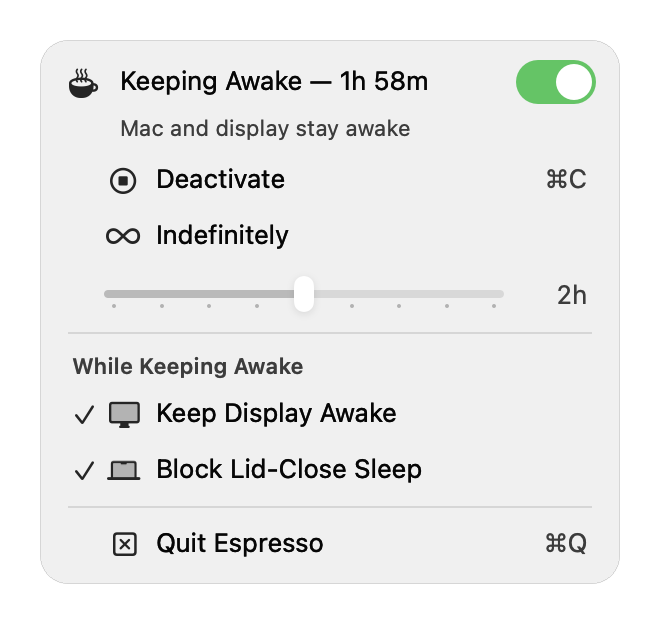
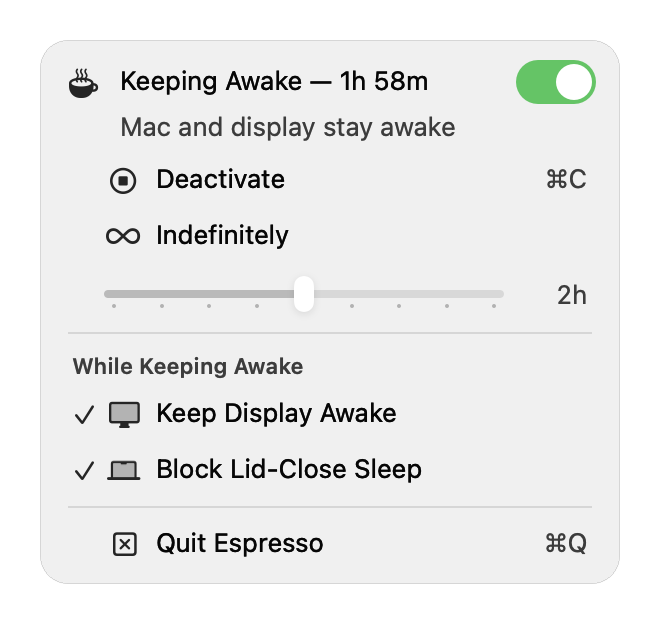
Detail line at 13pt like the rest of the menu; grey carries the hierarchy

Changed region(s): [[0.1818, 0.1827, 0.697, 0.2436]]

diff --git a/Sources/Espresso/AppDelegate.swift b/Sources/Espresso/AppDelegate.swift
@@ -168,10 +168,10 @@ final class AppDelegate: NSObject, NSApplicationDelegate, NSMenuDelegate {
         container.addSubview(title)
 
         let subtitle = NSTextField(labelWithString: "")
-        subtitle.font = .systemFont(ofSize: 11)
+        subtitle.font = .systemFont(ofSize: 13)
         subtitle.textColor = .secondaryLabelColor
         subtitle.lineBreakMode = .byTruncatingTail
-        subtitle.frame = NSRect(x: 38, y: 6, width: 238, height: 13)
+        subtitle.frame = NSRect(x: 38, y: 5, width: 238, height: 16)
         container.addSubview(subtitle)
 
         let toggle = NSSwitch()
